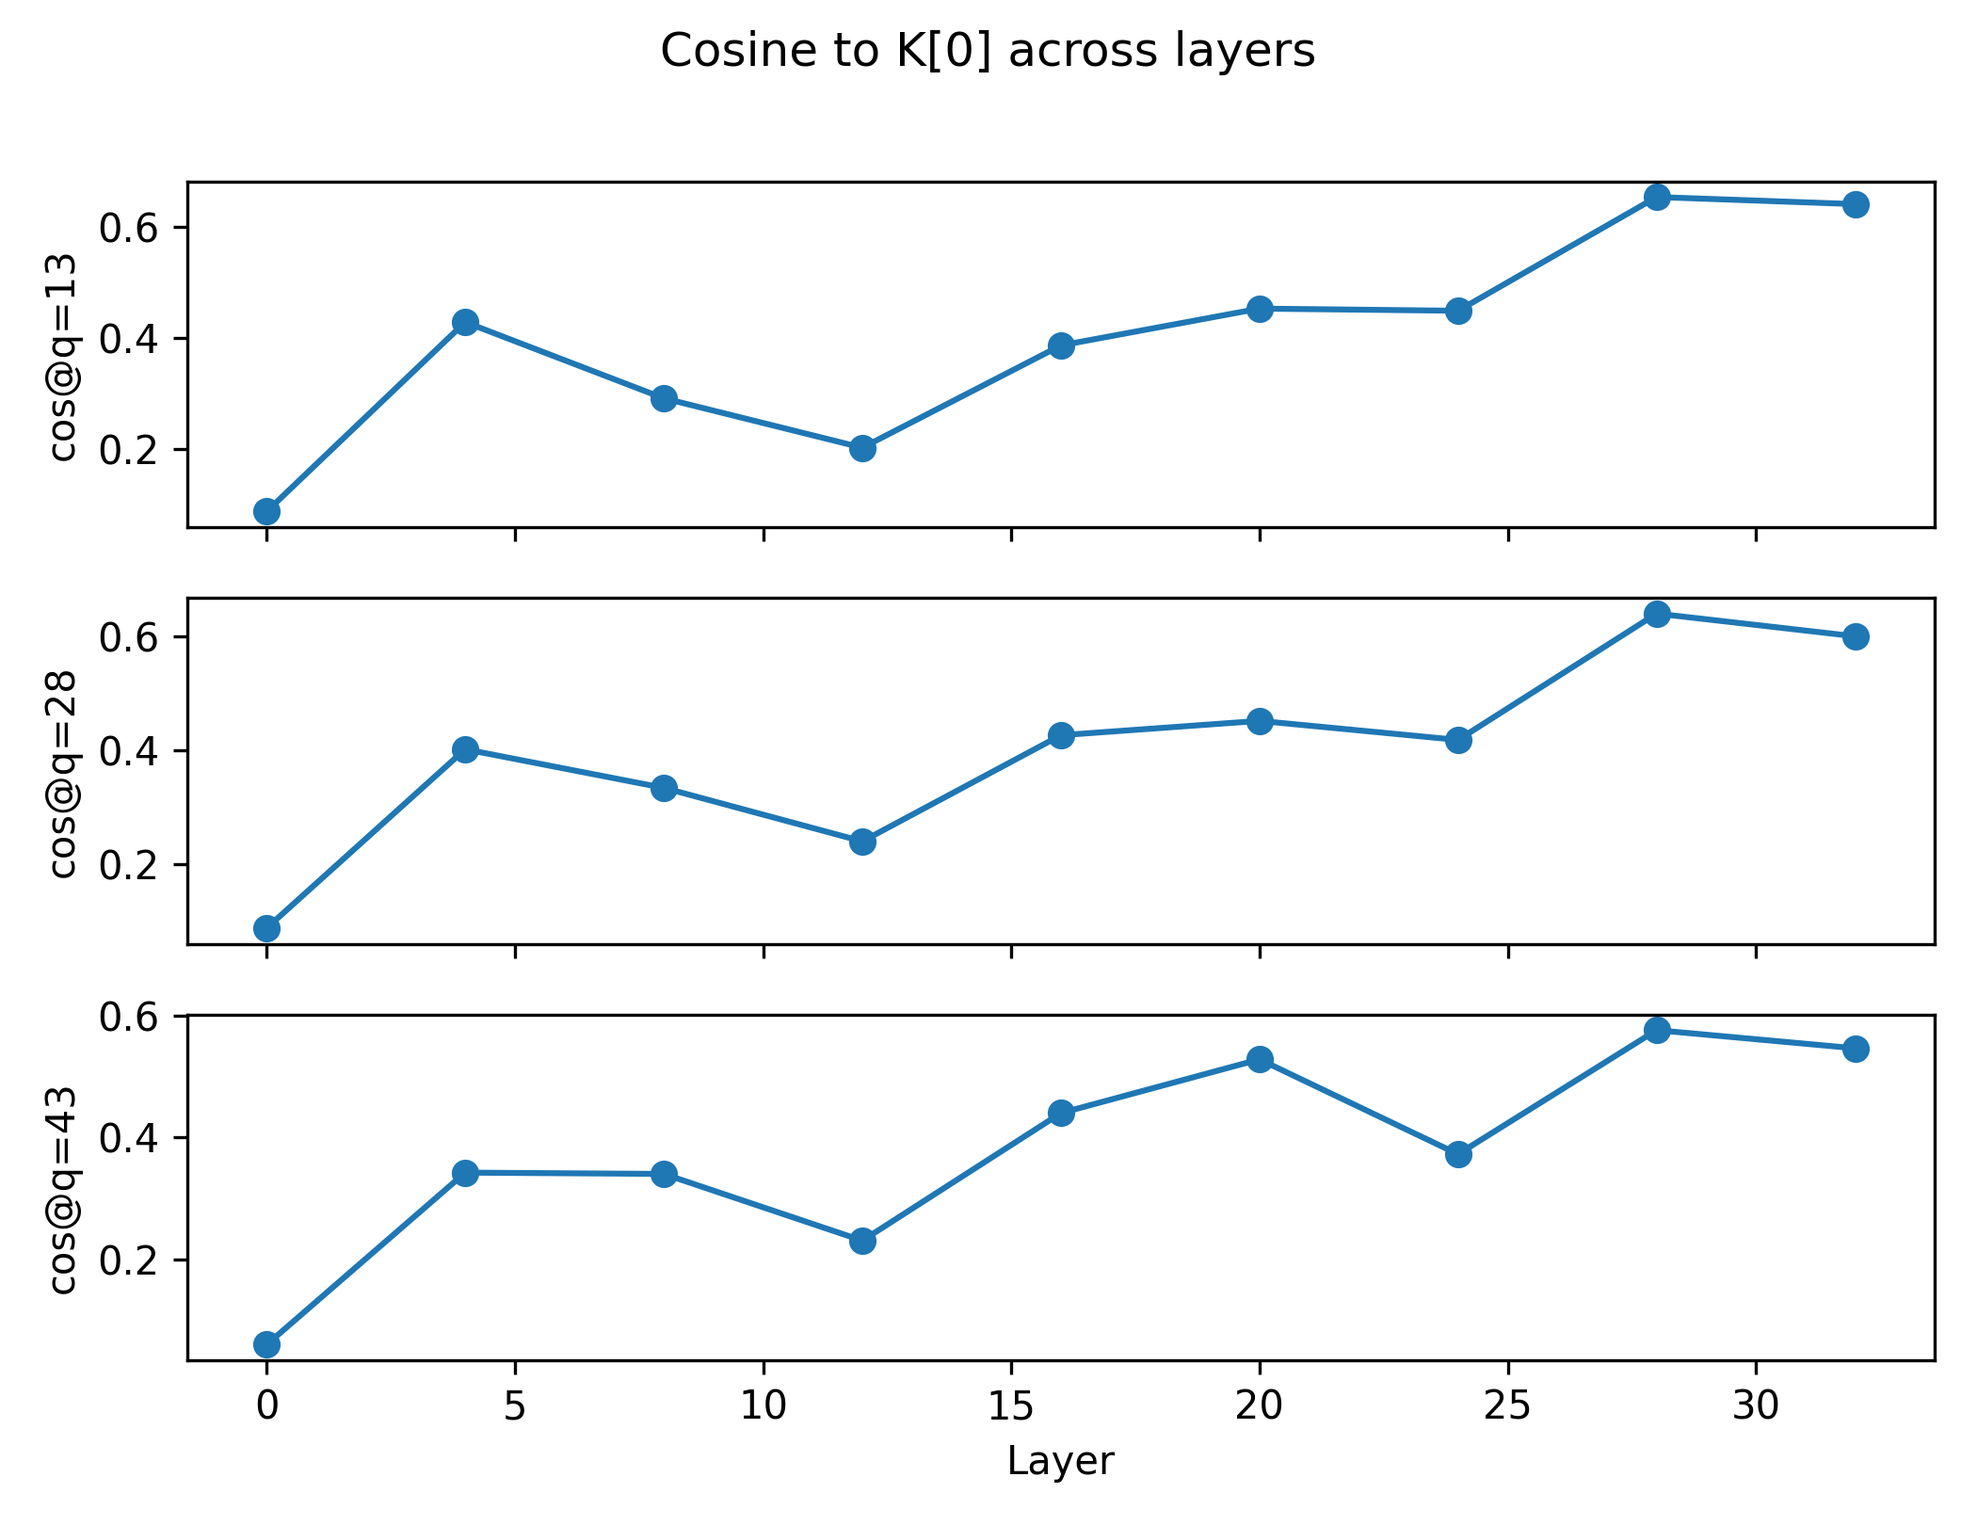
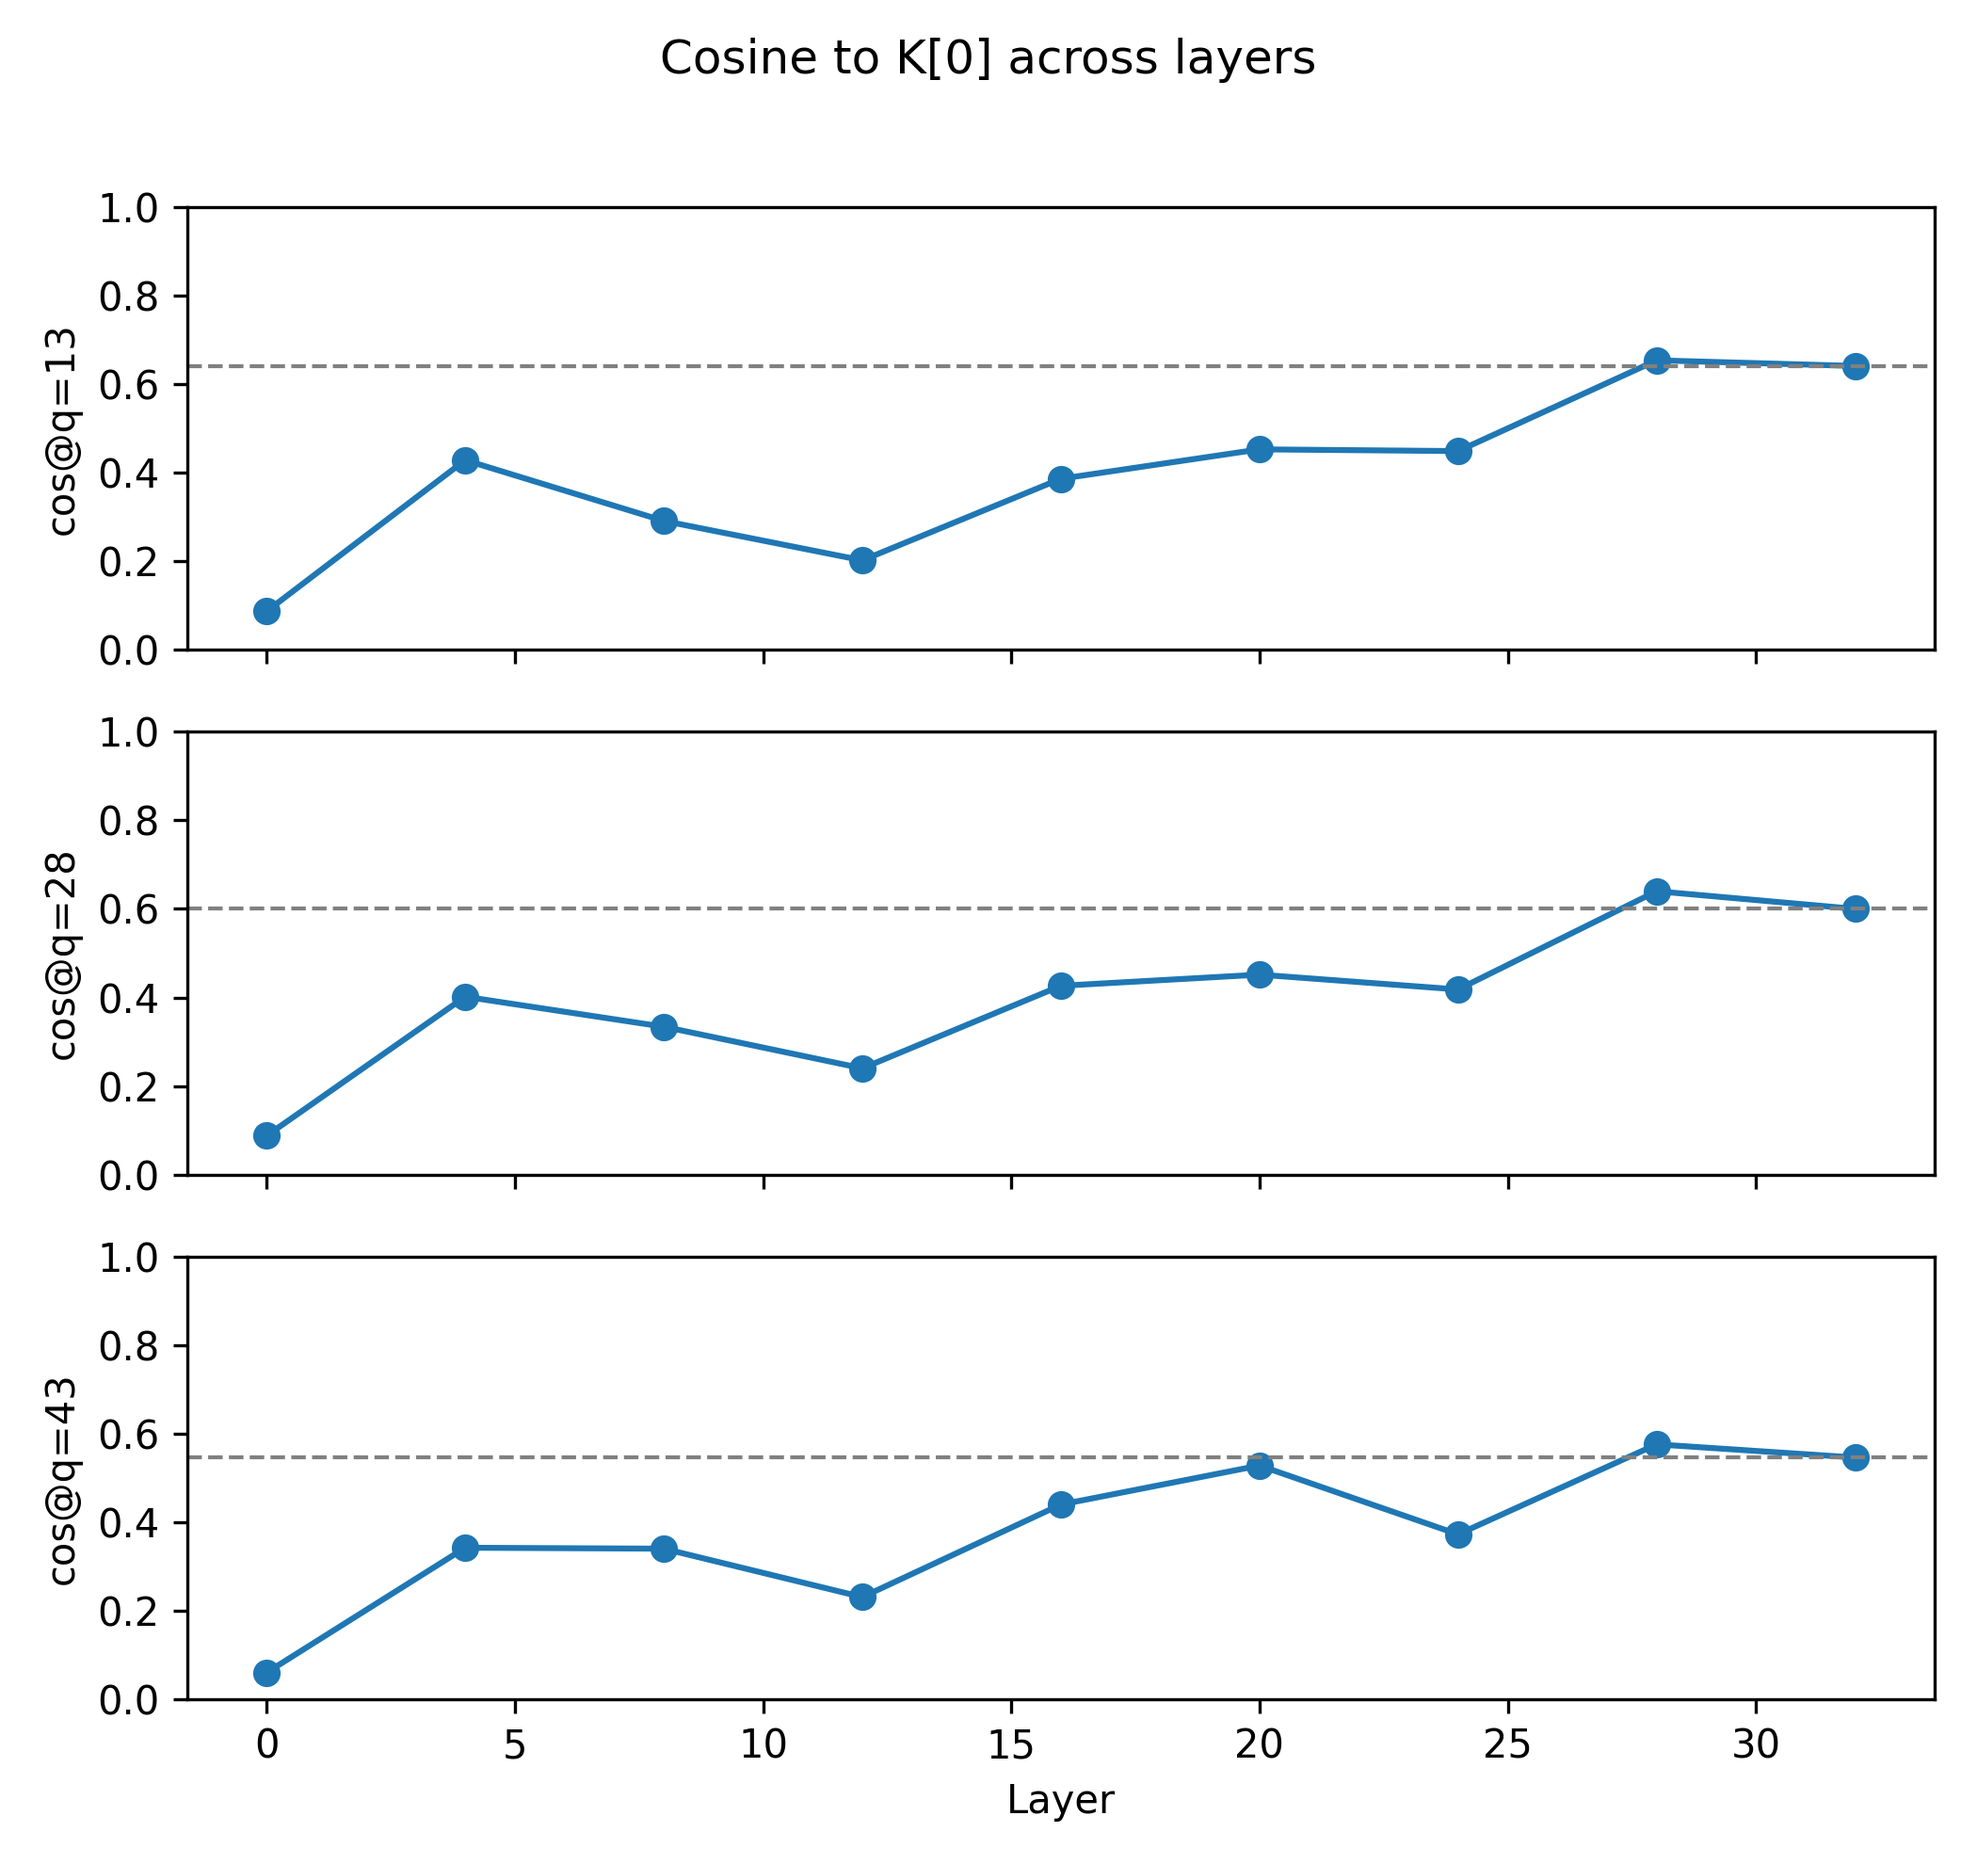
Added results for non-sink token cos sim and norms

diff --git a/attention_sink/analyze_sink.py b/attention_sink/analyze_sink.py
@@ -1,6 +1,6 @@
 """
 python analyze_sink.py --scan \
-    --print [heatmap, log] \
+    --print [heatmap, qkv] \
     --rope 0=12,1=13,2=14,3=15 \
     --random-init \
     --lower-attn \
@@ -12,7 +12,7 @@ from transformers import AutoTokenizer, AutoModelForCausalLM, AutoConfig
 import torch.nn.functional as F
 
 EPS = 1e-12
-PRINT_CHOICES = ["heatmap", "log"]
+PRINT_CHOICES = ["heatmap", "qkv"]
 
 # Perturbation & loading functions
 
@@ -37,6 +37,10 @@ def load_model(model_name, device, dtype, random_init=False):
 def tokenize(tok, text):
     enc = tok(text, return_tensors="pt", add_special_tokens=True)
     return enc["input_ids"]
+
+def _load_prompts_from_file(path):
+    with open(path, "r", encoding="utf-8") as f:
+        return [ln.strip() for ln in f.readlines() if ln.strip()]
 
 def make_position_ids(seq_len):
     return torch.arange(seq_len, dtype=torch.long).unsqueeze(0)
@@ -207,41 +211,13 @@ def compute_cosine_series(q, k, head_idx, k_sink_idx, q_positions):
 
 # Run functions
 
-def run_cosine(model, input_ids, position_ids, layer, head, qpos_arg):
-    attns, q, k, v = _forward_attn_and_qkv(model, input_ids, position_ids, layer, need_qkv=True)
-    if q is None or k is None:
-        raise RuntimeError("Failed to capture Q/K.")
+def pick_head(attentions, layer_idx, head_idx):
+    attn_l = attentions[layer_idx]
+    return attn_l[0, head_idx].detach().float().cpu().numpy()
 
-    seq_len = q.shape[2]
-    q_positions = list(_parse_qpos(qpos_arg, seq_len))
-    series, k_norm = compute_cosine_series(q, k, head, k_sink_idx=0, q_positions=q_positions)
-    v_norm = float(v[0, head, 0].norm().item())
+# Plotting functions
 
-    if hasattr(model, "_lower_attn_cache") and layer in model._lower_attn_cache:
-        attn_mat = model._lower_attn_cache[layer][0, head]
-    else:
-        attn_mat = attns[layer][0, head].detach().float().cpu()
-
-    print(f"Cosine (Q[q_idx], k[0]) layer={layer} head={head}")
-    cos_vals = []
-    for qi, cos in series:
-        attn_to_sink = float(attn_mat[qi, 0].item())
-        print(f"  q={qi}\tcos={cos:.6f}\tattn={attn_to_sink:.6f}")
-        cos_vals.append(cos)
-    return {
-        "layer": layer, "head": head, "q_positions": q_positions,
-        "cos": cos_vals, "k_norm": float(k_norm), "v_norm": float(v_norm)
-    }
-
-def run_heatmap(model, input_ids, position_ids, layer, head, outdir, tag="BASE", return_map=False, suffix=""):
-    attns, _, _, _ = _forward_attn_and_qkv(model, input_ids, position_ids, layer, need_qkv=False)
-
-    if hasattr(model, "_lower_attn_cache") and layer in model._lower_attn_cache:
-        orig = model._lower_attn_cache[layer]
-        head_attn = orig[0, head].numpy()
-    else:
-        head_attn = pick_head(attns, layer, head)
-
+def _plot_heatmap_with_tag(head_attn, layer, head, outdir, tag="BASE", return_map=False, suffix=""):
     title = f"Layer {layer} Head {head}" if return_map else f"{tag}Layer {layer} head {head}" 
     if return_map:
         return head_attn, title
@@ -253,12 +229,6 @@ def run_heatmap(model, input_ids, position_ids, layer, head, outdir, tag="BASE",
         suffix=suffix
     )
     return None, None
-
-def pick_head(attentions, layer_idx, head_idx):
-    attn_l = attentions[layer_idx]
-    return attn_l[0, head_idx].detach().float().cpu().numpy()
-
-# Plotting functions
 
 def _plot_attn(attn, title, out_path, suffix=""):
     plt.figure(figsize=(6, 4.5))
@@ -280,17 +250,22 @@ def _plot_norm_progression(stats, outdir, key, ylabel, title, fname, suffix=""):
     plt.plot(layers, y, marker="o")
     plt.xlabel("Layer")
     plt.ylabel(ylabel)
+
+    if len(y) > 0:
+        plt.axhline(y[-1], color="gray", linestyle="--", linewidth=1.0)
+
     plt.title(title)
     plt.tight_layout()
     plt.savefig(_append_suffix(os.path.join(outdir, fname), suffix), dpi=300)
     plt.close()
 
-def _plot_cosine_stack(stats, outdir, suffix=""):
+def _plot_cosine_stack(stats, outdir, suffix="", suptitle="Cosine to K[sink] across layers"):
     layers = sorted({s["layer"] for s in stats})
     by_layer = {s["layer"]: s for s in stats}
     q_positions = stats[0]["q_positions"]
     nrows = len(q_positions)
-    fig, axes = plt.subplots(nrows, 1, figsize=(7, 1.8*nrows), sharex=True)
+    fig_height = 2.2*nrows
+    fig, axes = plt.subplots(nrows, 1, figsize=(7, fig_height), sharex=True)
     if nrows == 1:
         axes = [axes]
     
@@ -298,9 +273,12 @@ def _plot_cosine_stack(stats, outdir, suffix=""):
         y = [by_layer[L]["cos"][i] for L in layers]
         axes[i].plot(layers, y, marker="o")
         axes[i].set_ylabel(f"cos@q={qi}")
+        axes[i].set_ylim(0.0, 1.0)
+        if len(y) > 0:
+            axes[i].axhline(y[-1], color="gray", linestyle="--", linewidth=1.0)
     
     axes[-1].set_xlabel("Layer")
-    fig.suptitle(f"Cosine to K[0] across layers")
+    fig.suptitle(suptitle)
     fig.tight_layout(rect=[0, 0, 1, 0.97])
     fig.savefig(_append_suffix(os.path.join(outdir, f"scan_cosine.png"), suffix), dpi=300)
     plt.close(fig)
@@ -347,6 +325,8 @@ def _pert_suffix(args):
         suffix += "__" + "random_init"
     if args.lower_attn:
         suffix += "__" + "lower_attn"
+    if args.sink_idx != 0:
+        suffix += "__" + f"sink[{args.sink_idx}]"
     return suffix
 
 def main():
@@ -355,13 +335,15 @@ def main():
     p.add_argument("--device", default="auto")
     p.add_argument("--dtype", default="bf16", choices=["auto", "bf16", "fp16", "fp32"])
     p.add_argument("--prompt", default=None)
+    p.add_argument("--prompt-file", default=None)
     p.add_argument("--layer", type=int, default=0)
     p.add_argument("--head", type=int, default=0)
     # scanning mode
     p.add_argument("--scan", action="store_true")
     # print mode
-    p.add_argument("--print", dest="print_mode", choices=PRINT_CHOICES, default="log")
-    p.add_argument("--qpos", default=None, help="Comma-separated list of query positions for --print log, eg. '256,512,768")
+    p.add_argument("--print", dest="print_mode", choices=PRINT_CHOICES, default="qkv")
+    p.add_argument("--qpos", default=None, help="Comma-separated list of query positions for --print qkv, eg. '256,512,768")
+    p.add_argument("--sink-idx", type=int, default=0, help="Index of the sink in qkv mode")
     # perturbations
     p.add_argument("--rope", default=None, help="Comma-separated list of token_idx=rope_pos, eg. '12=0,42=1")
     p.add_argument("--mask", default=None, choices=["upper"], help="Causal mask type")
@@ -373,13 +355,20 @@ def main():
 
     tok, model = load_model(args.model, args.device, args.dtype, random_init=args.random_init)
 
-    if args.prompt:
-        text = args.prompt
+    if args.prompt_file:
+        prompts = _load_prompts_from_file(args.prompt_file)
     else:
-        text = "To understand the failure of window attention, we find an interesting phenomenon of autoregressive LLMs: a surprisingly large amount of attention score is allocated to the initial tokens, irrespective of their relevance to the language modeling task"
+        if args.prompt:
+            prompts = [args.prompt]
+        else:
+            prompts = ["To understand the failure of window attention, we find an interesting phenomenon of autoregressive LLMs: a surprisingly large amount of attention score is allocated to the initial tokens, irrespective of their relevance to the language modeling task"]
 
-    input_ids = tokenize(tok, text)
-    base_pos = make_position_ids(input_ids.shape[1])
+    tokenized = []
+    for text in prompts:
+        input_ids = tokenize(tok, text)
+        base_pos = make_position_ids(input_ids.shape[1])
+        tokenized.append((input_ids, base_pos))
+
     os.makedirs(args.outdir, exist_ok=True)
 
     rope_str = args.rope
@@ -395,51 +384,85 @@ def main():
             model, layers=range(num_layers), factor=0.5, sink_k_idx=0
         )
 
-    scan_stats = []
+    scan_stats = [] # aggregated per layer
     scan_maps, scan_titles = [], []
 
-    def handle_one(layer, head):
-        pos_ids_perturbed, applied = apply_perturbations(base_pos, rope_overrides=rope_overrides)
+    def _aggregate_qkv_for_layer(layer, head):
+        cos_list = []
+        k_norms, v_norms = [], []
+        attn_maps = []
+        q_positions = None
+        
+        for input_ids, base_pos in tokenized:
+            pos_ids_perturbed, _ = apply_perturbations(base_pos, rope_overrides=rope_overrides)
+            attns, q, k, v = _forward_attn_and_qkv(model, input_ids, pos_ids_perturbed, layer, need_qkv=True)
+            if q is None or k is None:
+                raise RuntimeError("Failed to capture Q/K.")
+            seq_len = q.shape[2]
+            q_positions = list(_parse_qpos(args.qpos, seq_len)) if q_positions is None else q_positions
+            series, k_norm = compute_cosine_series(q, k, head, k_sink_idx=args.sink_idx, q_positions=q_positions)
+            v_norm = float(v[0, head, args.sink_idx].norm().item())
 
-        if args.print_mode == "log":
-            stats = run_cosine(model, input_ids, pos_ids_perturbed, layer, head, args.qpos)
-            scan_stats.append(stats)
+            k_norms.append(k_norm)
+            v_norms.append(v_norm)
+            cos_list.append([c for (_, c) in series])
+            if hasattr(model, "_lower_attn_cache") and layer in model._lower_attn_cache:
+                attn_maps.append(pick_head(model._lower_attn_cache, layer, head))
+            else:
+                attn_maps.append(pick_head(attns, layer, head))
 
-        elif args.print_mode == "heatmap":
-            tag = ""
-            if rope_overrides:
-                ov_str = ",".join([f"{ti}={rp}" for ti, rp in rope_overrides])
-                tag = f"PERTURBED rope({ov_str}) "
+        cos_mean = np.mean(np.array(cos_list), axis=0).tolist()
+        k_mean = float(np.mean(k_norms))
+        v_mean = float(np.mean(v_norms))
+        attn_agg = np.mean(np.stack(attn_maps, axis=0), axis=0)
+        return {
+            "k_norm": k_mean, "v_norm": v_mean, "cos": cos_mean, 
+            "layer": layer, "head": head, "q_positions": q_positions
+        }
 
-            if args.scan:
-                m, t = run_heatmap(
-                    model, input_ids, pos_ids_perturbed, layer, head, 
-                    args.outdir, tag=tag, return_map=True, suffix=pert_suffix
-                )
-                if m is not None and t is not None:
-                    scan_maps.append(m)
-                    scan_titles.append(t)
-            else: 
-                run_heatmap(
-                    model, input_ids, pos_ids_perturbed, layer, head, 
-                    args.outdir, tag=tag, return_map=False, suffix=pert_suffix
-                )
+    def _aggregate_attn_score_for_layer(layer, head, tag):
+        attn_maps = []
+        for input_ids, base_pos in tokenized:
+            pos_ids_perturbed, _ = apply_perturbations(base_pos, rope_overrides=rope_overrides)
+            attns, _, _, _ = _forward_attn_and_qkv(model, input_ids, pos_ids_perturbed, layer, need_qkv=False)
+            if hasattr(model, "_lower_attn_cache") and layer in model._lower_attn_cache:
+                attn_maps.append(pick_head(model._lower_attn_cache, layer, head))
+            else:
+                attn_maps.append(pick_head(attns, layer, head))
+        head_attn = np.mean(np.stack(attn_maps, axis=0), axis=0)
+        if args.scan:
+            m, t = _plot_heatmap_with_tag(head_attn, layer, head, args.outdir, tag=tag, return_map=True, suffix=pert_suffix)
+            return m, t
+        else:
+            _plot_heatmap_with_tag(head_attn, layer, head, args.outdir, tag=tag, return_map=False, suffix=pert_suffix)
+            return None, None
 
     if args.scan:
         for L in range(0, num_layers, 4):
-            handle_one(L, args.head)
+            if args.print_mode == "qkv":
+                stats = _aggregate_qkv_for_layer(L, args.head)
+                scan_stats.append(stats)
+            else:
+                tag = ""
+                if rope_overrides:
+                    ov_str = ",".join([f"{ti}={rp}" for ti, rp in rope_overrides])
+                    tag = f"PERTURBED rope({ov_str}) "
+                m, t = _aggregate_attn_score_for_layer(L, args.head, tag)
+                if m is not None and t is not None:
+                    scan_maps.append(m)
+                    scan_titles.append(t)
 
-        if args.print_mode == "log" and len(scan_stats) > 0:
+        if args.print_mode == "qkv" and len(scan_stats) > 0:
             scan_stats = sorted(scan_stats, key=lambda s: s["layer"])
             _plot_norm_progression(
                 scan_stats, args.outdir, key="k_norm", ylabel="||K[0]||",
-                title="K-norm progression", fname="scan_knorm.png", suffix=pert_suffix
+                title=f"K-norm progression (sink={args.sink_idx})", fname="scan_knorm.png", suffix=pert_suffix
             )
             _plot_norm_progression(
                 scan_stats, args.outdir, key="v_norm", ylabel="||V[0]||",
-                title="V-norm progression", fname="scan_vnorm.png", suffix=pert_suffix
+                title=f"V-norm progression (sink={args.sink_idx})", fname="scan_vnorm.png", suffix=pert_suffix
             )
-            _plot_cosine_stack(scan_stats, args.outdir, suffix=pert_suffix)
+            _plot_cosine_stack(scan_stats, args.outdir, suffix=pert_suffix, suptitle=f"Cosine to K[{args.sink_idx}] across layers")
         
         elif args.print_mode == "heatmap" and len(scan_maps) > 0:
             grid_title = "Attention heatmaps"
@@ -459,8 +482,15 @@ def main():
             )
 
     else:
-        handle_one(args.layer, args.head)
-
+        if args.print_mode == "qkv":
+            _ = _aggregate_qkv_for_layer(args.layer, args.head)
+        else:
+            tag = ""
+            if rope_overrides:
+                ov_str = ",".join([f"{ti}={rp}" for ti, rp in rope_overrides])
+                tag = f"PERTURBED rope({ov_str}) "
+            _, _ = _aggregate_attn_score_for_layer(args.layer, args.head, tag=tag)
+        
     for pair in lower_attn_handles:
         for h in pair:
             try:
